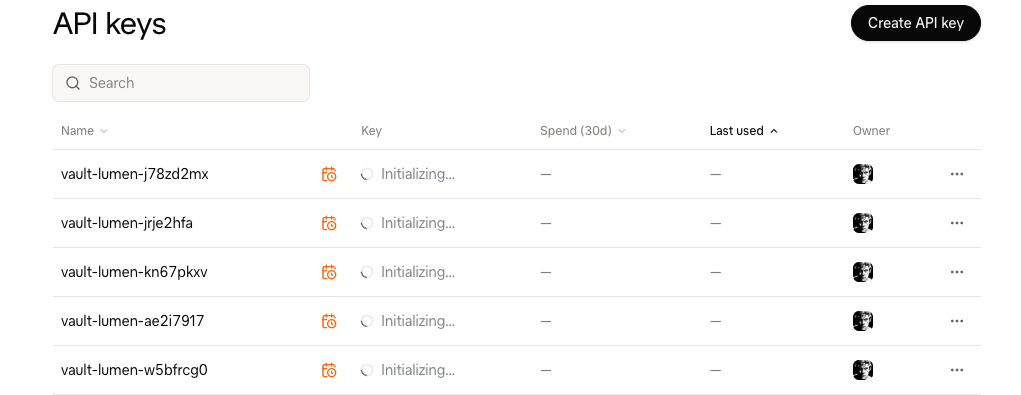
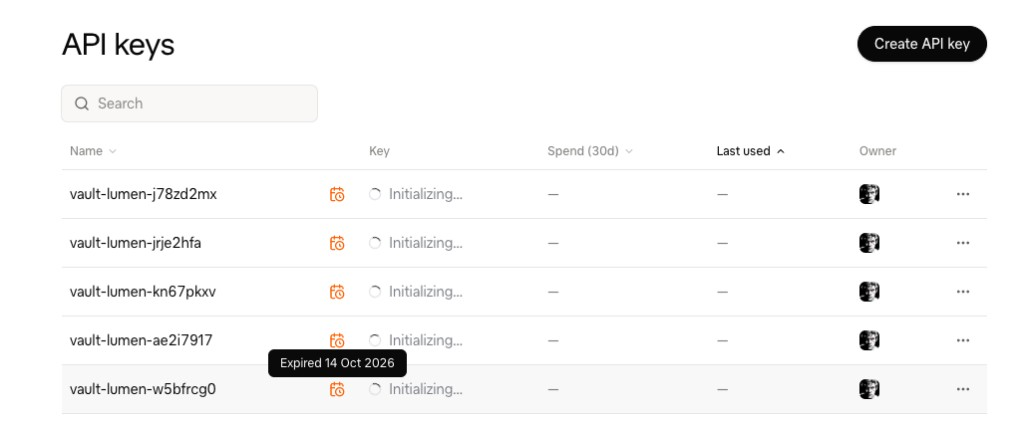
Replace lease-expiry screenshot with the Expired tooltip view. (#6)

diff --git a/README.md b/README.md
@@ -153,9 +153,9 @@ api_key_id         ...
 name               vault-lumen-abcd1234
 ```
 
-When the lease expires or is revoked, the plugin calls `DELETE /auth/api-keys/{apiKeyId}`. In the xAI console, expired keys briefly show as **Initializing…** (with the calendar/expiry icon) under names matching the role template, for example `vault-lumen-<suffix>`:
+When the lease expires or is revoked, the plugin calls `DELETE /auth/api-keys/{apiKeyId}`. In the xAI console, those keys show under the role name template (for example `vault-lumen-<suffix>`) with the calendar icon tooltip **Expired …** while the key column still reads **Initializing…**:
 
-![xAI console showing vault-issued API keys as Initializing after lease expiry](docs/images/xai-console-lease-expiry.png)
+![xAI console showing vault-issued API keys marked Expired after lease expiry](docs/images/xai-console-lease-expiry.png)
 
 `vault read xai/config` does not return the management key.
 
